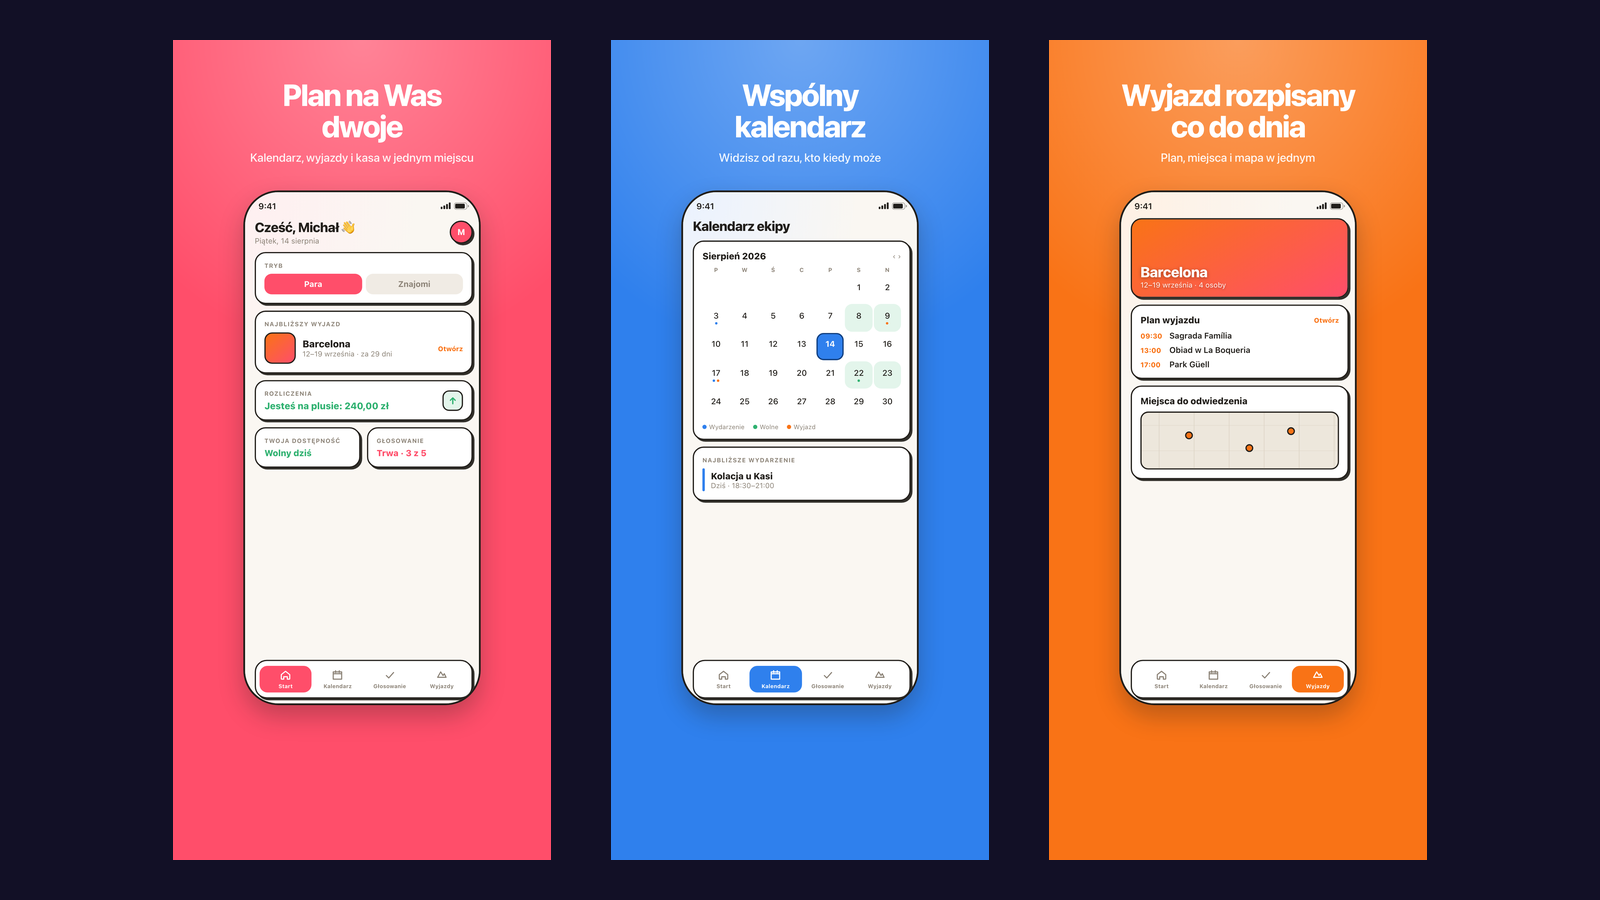
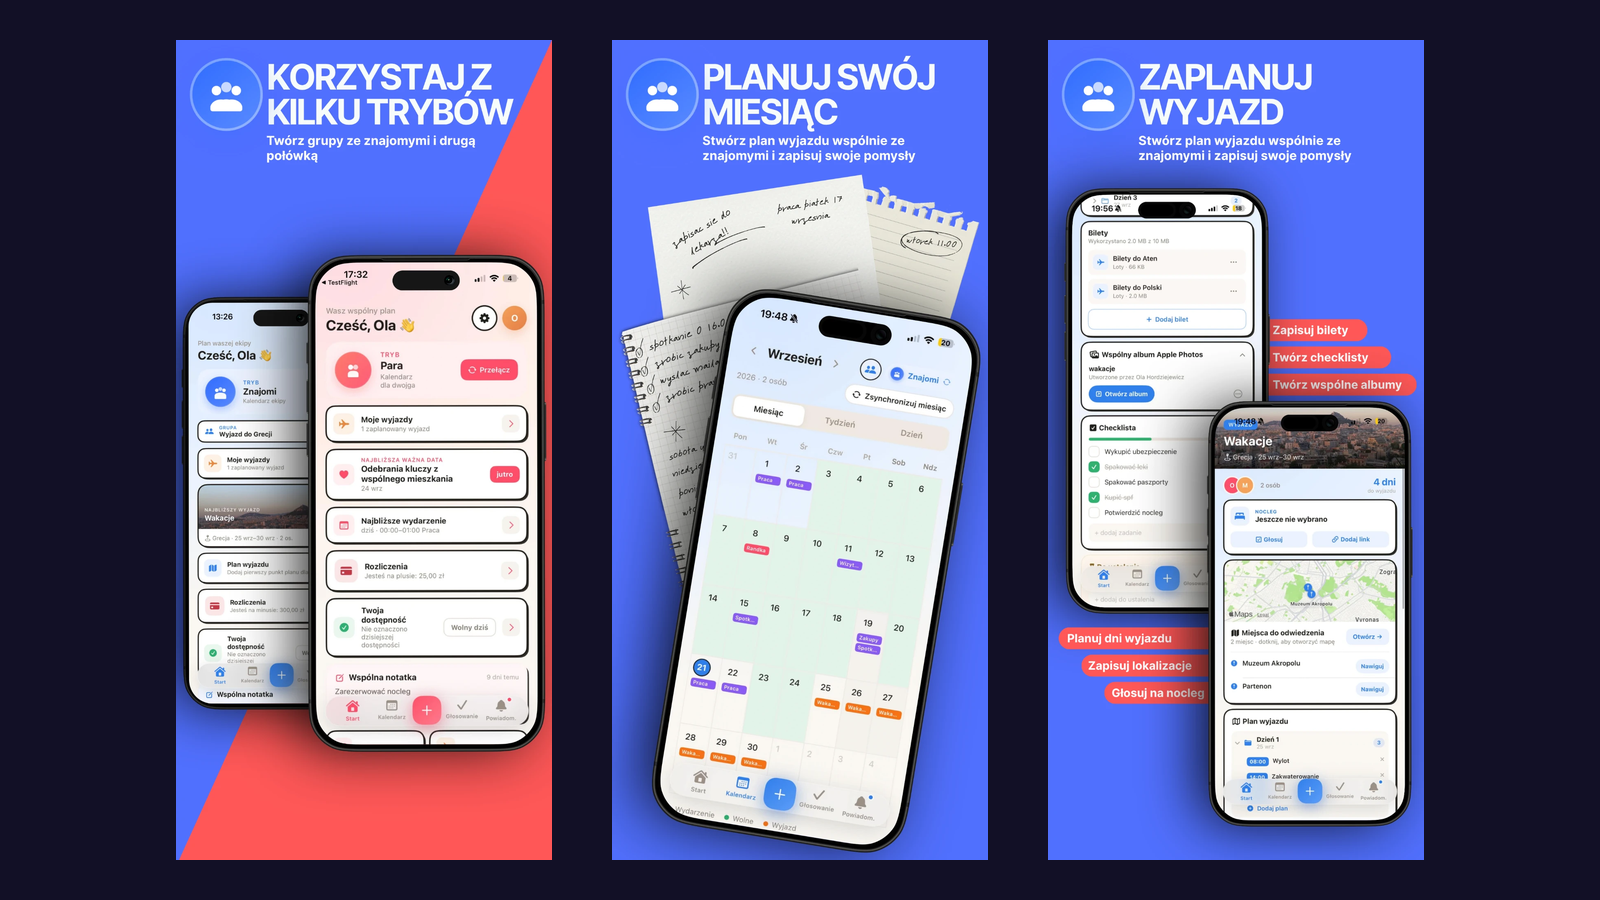
TogetherPlan: use the App Store Connect screenshots provided by the author
Replace the old mockup gallery with the five current App Store images
(cropped to the sharp centre) and rebuild the preview image from them.

Claude-Session: https://claude.ai/code/session_019dZGg5NqK4exc1943cJPJk

diff --git a/src/constants/index.js b/src/constants/index.js
@@ -15,12 +15,11 @@ export const myProjects = [
     logo: "",
     image: "/assets/projects/togetherplan.png",
     gallery: [
-      "/assets/projects/togetherplan/01-dashboard.jpg",
-      "/assets/projects/togetherplan/02-kalendarz.jpg",
-      "/assets/projects/togetherplan/03-dostepnosc.jpg",
-      "/assets/projects/togetherplan/04-wyjazd.jpg",
-      "/assets/projects/togetherplan/05-rozliczenia.jpg",
-      "/assets/projects/togetherplan/06-bilety.jpg",
+      "/assets/projects/togetherplan/01-start.jpg",
+      "/assets/projects/togetherplan/02-tryby.jpg",
+      "/assets/projects/togetherplan/03-kalendarz.jpg",
+      "/assets/projects/togetherplan/04-glosowanie.jpg",
+      "/assets/projects/togetherplan/05-wyjazd.jpg",
     ],
     tags: [
       {
